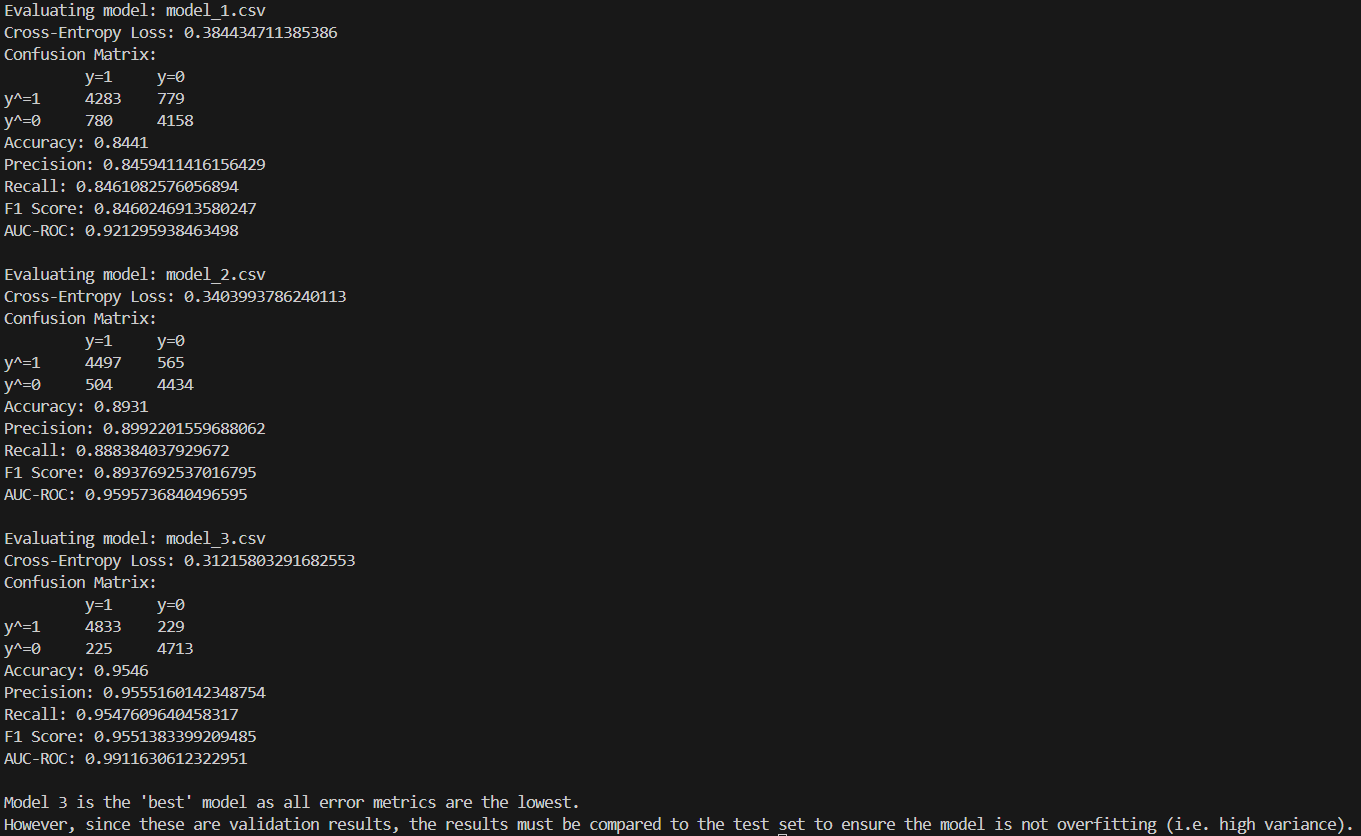
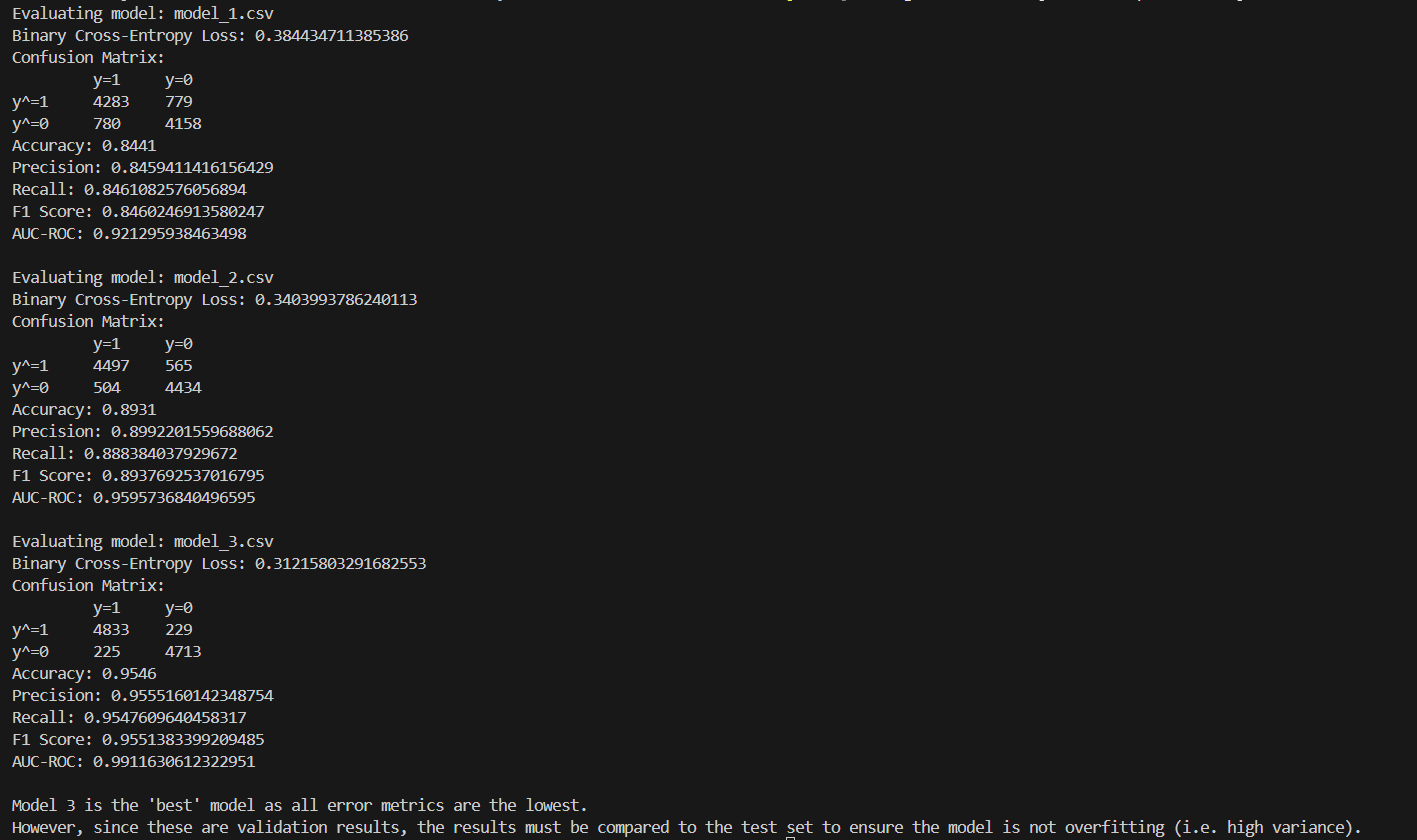
Update README.md

Changed region(s): [[0.0, 0.0, 0.9875, 1.0]]

diff --git a/SVBR/src/main/java/com/ontariotechu/sofe3980U/App.java b/SVBR/src/main/java/com/ontariotechu/sofe3980U/App.java
@@ -7,7 +7,7 @@ import com.opencsv.CSVReader;
 import com.opencsv.CSVReaderBuilder;
 
 /**
- * Evaluate Single Variable Logistic Regression
+ * Evaluate Single Variable Binary Regression
  *
  */
 public class App 
@@ -101,7 +101,7 @@ public class App
 				auc += (tpr[i-1] + tpr[i]) * Math.abs(fpr[i-1] - fpr[i]) / 2;
 			}
 
-			System.out.println("Cross-Entropy Loss: " + bce);
+			System.out.println("Binary Cross-Entropy Loss: " + bce);
 
 			System.out.println("Confusion Matrix:");
 			System.out.println("\t y=1 \t y=0");

diff --git a/SVCR/src/main/java/com/ontariotechu/sofe3980U/App.java b/SVCR/src/main/java/com/ontariotechu/sofe3980U/App.java
@@ -5,7 +5,7 @@ import java.util.List;
 import com.opencsv.*;
 
 /**
- * Evaluate Single Variable Linear Regression
+ * Evaluate Single Variable Continuous Regression
  *
  */
 public class App 

diff --git a/MCC/src/main/java/com/ontariotechu/sofe3980U/App.java b/MCC/src/main/java/com/ontariotechu/sofe3980U/App.java
@@ -5,7 +5,7 @@ import java.util.List;
 import com.opencsv.*;
 
 /**
- * Evaluate Single Variable Continuous Regression
+ * Evaluate Multi-Class Classification
  *
  */
 public class App 

diff --git a/README.md b/README.md
@@ -1,149 +1,35 @@
-# Lab 4: ML Model Testing and Evaluation
+# ML Evaluation Metrics using Java
+# Introduction
+Machine Learning (ML) models are pivotal in modern software systems, necessitating rigorous testing to ensure reliability and performance. This lab focuses on evaluating ML models across three problem types: single-variable continuous regression, binary classification, and multiclass classification. For each, appropriate metrics—such as Mean Squared Error (MSE), Binary Cross-Entropy (BCE), and Cross-Entropy (CE) are implemented to assess accuracy and guide model selection.
 
-Machine Learning (ML) models play a crucial role in modern software. Testing modern software should include testing the ML models. The design of the ML model is outside the lab's scope. Only ML 
-testing will be covered. Different problems will be considered. For each problem type, corresponding metrics are utilized.
+# Results
+### Single-variable Continuous Regression
+3 models were compared in this section.  Their results are shown below.
+![Single-variable Continuous Regression Results](images/t1.png)
 
-## Repository:   
-[https://github.com/zubxxr/SOFE3980U-Lab4](https://github.com/zubxxr/SOFE3980U-Lab4) 
+### Single-variable Binary Regression
+3 models were compared in this section.  Their results are shown below.
+![Single-variable Binary Regression Results](images/t2.png)
 
-## 1. Single-variable Continuous Regression Problem
+### Multi-Class Classification
+A single model was evalulated in this section.
+![Multiclass Classification Results](images/t3.png)
 
-The goal is to estimate the value of a continuous variable, $$𝑦$$, using the values of input variables, $`\mathbf{x}=\{x_{0},...,x_{n}\}`$. This is achieved by learning the parameters, $\Theta$ of a function $\hat{y}=f_{\Theta}(x)=f_{\Theta}(x_{0},...,x_{n})$ such that estimated value $\hat{y}=f_{\Theta}(x)$ should be much closer to the actual value, $y$. The actual value is sometimes called ground truth. A dataset, $`\mathcal{D}`$, consists of pairs of inputs and output, $`(x^{(i)},y^{(i)}) \forall i \in \{ 0,...,n \}`$, are needed to train the model where $𝑛$ is the length of the dataset. The data set is divided into three non-overlapped sub-sets: training, validation, and testing. The training set is used to tune the model. The validation set is used to evaluate the training process and the training process early if needed. Finally, the test process is used for blind evaluation of different models and hyperparameters. Many metrics can be used as
+# Discussion
+Suppose that our dataset contains 5 points of class A and 5 95 points of class B.  Suppose that the result of the model is that it simply predicts everything as class B no matter the input.
 
-$MSE=\frac{1}{n} \sum_{i=0}^{n}{\big(y^{(i)}-\hat{y}^{(i)}\big)^2}$      (Mean Square Error)
+### Accuracy
+The accuracy metric is used in classification tasks.  It is simply the ratio of examples that the model correctly classified to the total number of datapoints.\
+$Accuracy_\text{Class A}=\frac{\text{Points classified as class A}}{\text{Total number of datapoints}}$\
+In the above example, accuracy is 95% even though it doesn't learn anything meaningful!  That is why we need recall and percision.
 
-$`MAE=\frac{1}{n} \sum_{i=0}^{n}{\big|y^{(i)}-\hat{y}^{(i)}\big|}`$      (Mean Absolute Error)
+### Recall
+Recall is the ratio of examples **of class A** that were correctly classified. It is useful when there is an imbalenced dataset.\
+$Recall_\text{Class A} = \frac{\text{Points correctly classified as class A}}{\text{Points that are actually class A}}$\
+In the above example, **Precision on class A in the above  example would be 100%!**
 
-$`MARE=\frac{1}{n} \sum_{i=0}^{n}{\frac{|y^{(i)}-\hat{y}^{(i)}|}{|y^{(i)}|+\epsilon}} *100\%`$      (Mean Absolute Relative Error)
-
-where $\epsilon$ is a very small positive number to avoid dividing by zero. A model becomes better with the decrease of the MSE, MAE, or MARE values.
-
-The folder [/SVCR](/SVCR) within the GitHub repository contains a Maven-managed Java program. The [program](/SVCR/src/main/java/com/ontariotechu/sofe3980U/App.java) reads a CSV file called [model_1.csv](/SVCR/model_1.csv), and displays the first ten lines of the CSV data using a library called [com.opencsv](https://www.geeksforgeeks.org/reading-csv-file-java-using-opencsv/). The POM file has been updated to include the library as a dependency and has been configured to be included in the JAR file. Type the following command to build the program after downloading it from the GitHub repository.
-``` cmd
-mvn clean package assembly:single
-```
-and the following line to execute the program
-```cmd
-java -jar target/SVCR-1.0.0-jar-with-dependencies.jar
-```
-The [model_1.csv](/SVCR/model_1.csv) file consists of two columns, true and predicted. Those are the validation results of an ML model. The [/SVCR](/SVCR) folder also contains the validation results of two other models in [model_2.csv](/SVCR/model_2.csv) and  [model_3.csv](/SVCR/model_3.csv).
-
-### Task 1:
-* Update the Java program to calculate the MSE, MAE, and MARE for all the data stored in the [model_1.csv](/SVCR/model_1.csv) file.
-* Repeat the metrics evaluation for the validation results from the [model_2.csv](/SVCR/model_2.csv) and [model_3.csv](/SVCR/model_3.csv) files.
-* Figure out the model with the lower error and recommend it.
-  
-## 2. Single-variable Binary Regression Problem
-It's similar to the single-variable continuous regression problem except that the output variable has two values: either zero or one,  $`y \in \{0,1\}`$. The estimated variable has a continuous value between 0 and 1, $`\hat{y}=p(y|x)=f_{\Theta}(\mathbf{x}) \in [0,1]`$. By applying a threshold, the value can be converted into a binary value.
-
-$`\hat{y}_{\text{binary}}=\begin{cases}
-      1 & \text{if $\hat{y} >=$ threshold}\\
-      0 & \text{if $\hat{y} <$ threshold}\\
-    \end{cases}`$
-    
-The default value of the threshold is 0.5. a binary cross-entropy (BCE) is a metrics to evaluate the model.
-
-$`BCE=-\frac{1}{n} \sum_{i=0}^{n}{y^{(i)} log(\hat{y}^{(i)})+(1-y^{(i)}) log(1-\hat{y}^{(i)})}=-\frac{1}{n} \sum_{i=0}^{n}{\begin{cases}
-      log(\hat{y}^{(i)}) & \text{if $y^{(i)}=1$}\\
-      log(1-\hat{y}^{(i)}) & \text{if $y^{(i)}=0$}\\
-    \end{cases}}`$
-
-Another metrics is confusion matrix which is summarized by the following figure in which TP, FP, TN, and FN stand for True positive, False Positive, True Negative, and False Negative, repectively.
-
-![](images/confusion_matrix.jpg)  
-
-$`Accuracy=\frac{TP+TN}{TP+TN+FN+FP}`$
-
-$`Precision=\frac{TP}{TP+FP}`$
-
-$`Recall=\frac{TP}{TP+FN}`$
-
-$`F1_{\text{score}}=2 \frac{Precision*Recall}{Precision+Recall}`$
-
-A better model has a smaller BCE and larger Accuracy, Precision, Recall, and $F1_{\text{score}}$. Another way to evaluate a model is by using a ROC curve. The curve plots the true positive rate versus the false positive rate for different thresholds, as shown in the following figure.
-
-![](images/AUC-ROC.png)  
-
-The following procedure calculates the $x$ and $y$ coordinates for the ROC curve.
-
-$`n_{positive}=\sum_{i=0}^{n}{(y^{(i)}==1)}`$
-
-$`n_{negative}=\sum_{i=0}^{n}{(y^{(i)}==0)}`$
-
-for i=0:100
-
-$\qquad th$ =i/100.0
-  
-$`\qquad TP=\sum_{i=0}^{n}{(y^{(i)}==1 \&\&  \hat{y}^{(i)}>=th)}`$
-  
-$`\qquad TPR=\frac{TP}{n_{positive}}`$
-  
-$\qquad y[i]=TPR$
-  
-$`\qquad FP=\sum_{i=0}^{n}{(y^{(i)}==0 \&\&  \hat{y}^{(i)}>=th)}`$
-  
-$`\qquad FPR=\frac{FP}{n_{negative}}`$
-  
-$\qquad x[i]=FPR$
-
-The Area under the curve, AUC-ROC, is calculated to evaluate the ROC curve using the following procedure.
-
-
-auc=0
-
-for i=1:100
-
-$\qquad$ auc += (y[i-1]+y[i])*abs(x[i-1]-x[i])/2
-
-0.5 AUC-ROC value means random guessing. Increasing the AUC-ROC values means an improvement in the model performance. A perfect model has an AUC-ROC value of about 1.
-
-The folder [/SVBR](/SVBR) within the GitHub repository contains a Maven-managed Java program. The [program](/SVBR/src/main/java/com/ontariotechu/sofe3980U/App.java) reads a CSV file called [model_1.csv](/SVBR/model_1.csv) and displays the first ten lines of the CSV data. Type the following command to build the program after downloading it from the GitHub repository.
-``` cmd
-mvn clean package assembly:single
-```
-and the following line to execute the program
-```cmd
-java -jar target/SVBR-1.0.0-jar-with-dependencies.jar
-```
-The [model_1.csv](/SVBR/model_1.csv) file consists of two columns, true and predicted. Those are the validation results of an ML model. The [/SVBR](/SVBR) folder also contains the validation results of two other models in [model_2.csv](/SVBR/model_2.csv) and  [model_3.csv](/SVBR/model_3.csv).
-
-### Task 2:
-* Update the Java program to calculate the BCE, confusion matrix, Accuracy, Precision, Recall, $F1_{\text{score}}$, and AUC-ROC for all the data stored in the [model_1.csv](/SVBR/model_1.csv) file.
-* Repeat the metrics evaluation for the validation results from the [model_2.csv](/SVBR/model_2.csv) and [model_3.csv](/SVBR/model_3.csv) files.
-* Figure out and report the model with better performance.
-  
-## 3. Multiclass Classification
-It's a different ML problem in which the output is one of a set of $m$ classes $`y \in {1,...,m }`$. The ML model produces $m$ outputs that represent $`\hat{y}_j=p(y_j|x) \forall j \in {1,...,m }`$. the prediction is assigned to the class with the highest probability, $`\hat{y}= argmax_{j}{p(y_j|x)} \forall j \in {1,...,m }`$
-
-Cross entropy can be calculated to evaluate this type of model.
-
-$`CE=-\frac{1}{n} \sum_{i=0}^{n}{\begin{cases}
-      log(\hat{y}^{(i)}_1) & \text{if $y^{(i)}=1$}\\
-      log(\hat{y}^{(i)}_2) & \text{if $y^{(i)}=2$}\\
-      ... \\
-      log(\hat{y}^{(i)}_m) & \text{if $y^{(i)}=m$}\\
-    \end{cases}}`$
-
-A confusion matrix is constructed, as shown in the following figure.
-
-![](images/confusion_matrix2.jpg)  
-
-The folder [/MCC](/MCC) within the GitHub repository contains a Maven-managed Java program. The [program](/MCC/src/main/java/com/ontariotechu/sofe3980U/App.java) reads a CSV file called [model.csv](/MCC/model.csv) and displays the first ten lines of the CSV data. Type the following command to build the program after downloading it from the GitHub repository.
-``` cmd
-mvn clean package assembly:single
-```
-and the following line to execute the program
-```cmd
-java -jar target/MCC-1.0.0-jar-with-dependencies.jar
-```
-The [model.csv](/MCC/model.csv) file consists of six columns. The first is actual class $`\in \{1,...,5\}`$. Other columns represents $`\hat{y}_j`$. Those are the validation results of an ML model. 
-
-### Task 3:
-* Update the Java program to calculate the CE and confusion matrix for all the data stored in the [model.csv](/MCC/model.csv) file.
-
-## Discussion
-Compare accuracy, recall, and precision by describing the interpretation of each of them. Using examples shows applications in which one of them is more important than the others.
-
-## Deliverables
-1. A GitHub link of the code of the three tasks
-2. Report about the discussion part and the results of the tasks
+### Precision
+On the other hand, precision computes the ratio of examples **classified as class A** that were correctly classified.  It is useful when there is an imbalenced dataset.\
+$Precision_\text{Class A} = \frac{\text{\text{Points that are actually class A}}}{\text{Points classified as class A}}$\
+In the above example, 
+**Precision on class A in the above example would be 0%!**
